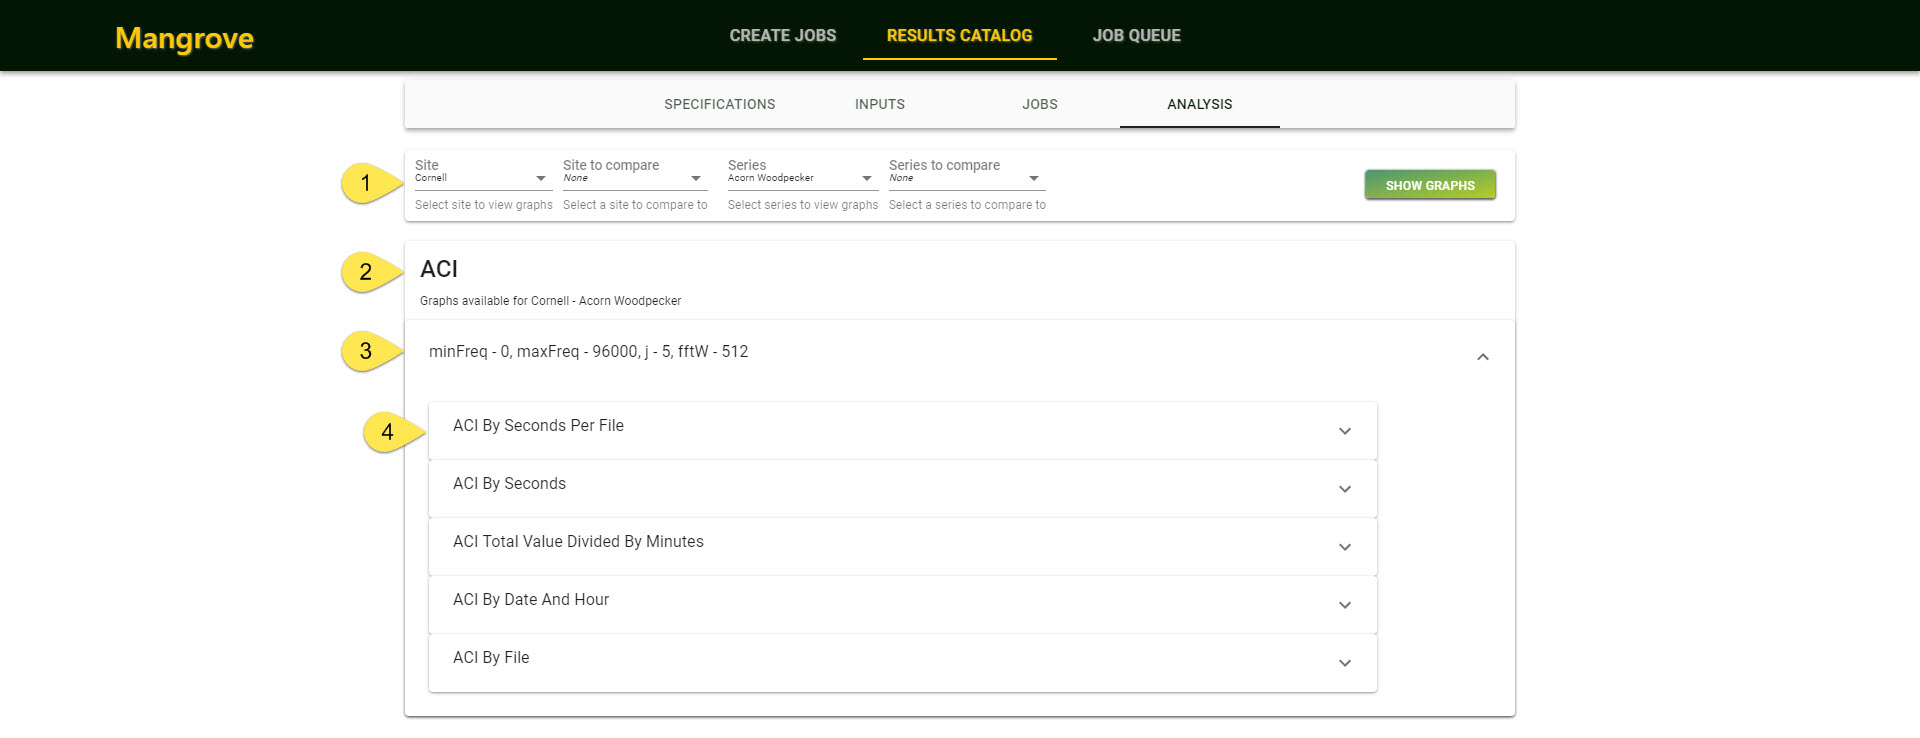
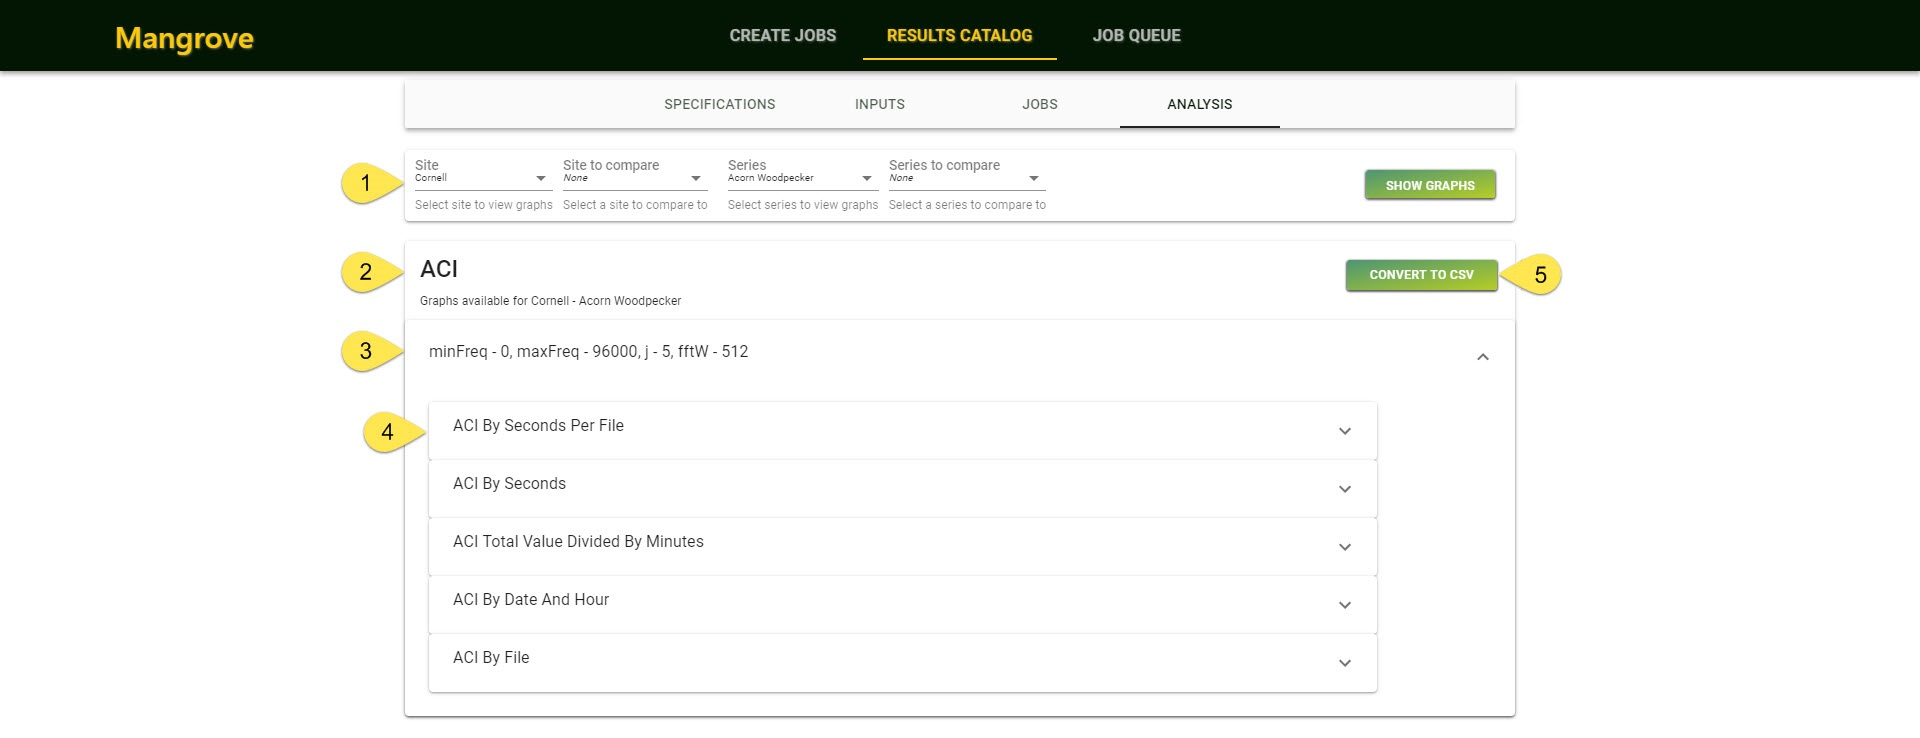
CSV export added to docs, table alignment

diff --git a/client/src/components/selectResults/specs/specsTable.js b/client/src/components/selectResults/specs/specsTable.js
@@ -83,7 +83,7 @@ class EnhancedTableHead extends React.Component {
             return (
               <TableCell
                 key={row.id}
-                align='center'
+                align='left'
                 padding={row.disablePadding ? 'none' : 'default'}
                 sortDirection={orderBy === row.id ? order : false}
               >

diff --git a/docs/design document/tech/userInterface/catalogPage.tex b/docs/design document/tech/userInterface/catalogPage.tex
@@ -12,7 +12,7 @@ The Results Catalog will be depicted in four separate parts, the first three of 
     \item \textbf{Filter By Metadata}\\ The user can filter the input files by its user defined metadata. When creating jobs, the user creates a Site and Series name for all inputs to be a part of. Here, they can type in a Site or Series to filter by. Additionally, they can filter by specific longitude and latitude markers.
     \item \textbf{Select Filtered Inputs}\\ After filtering, the user will select their inputs using the checkboxes. Again, these can be sorted by Site name, Series name, and also the date of the recording. An example of searching by Site, such as \textquotesingle UCF Arboretum\textquotesingle , would show all files captured at that location. An additional feature to this table is that you can delete inputs. Deleting inputs also removes any associated jobs with the input.
     \item \textbf{Select Jobs}\\ The final step before viewing graphs in the Analysis View is to choose jobs based off of the selected specs and inputs. As explained previously in this paper, every job consists of a spec and an input file. Thus, only jobs containing both selected specs and inputs will appear here.
-    \item \textbf{Filter By Author}\\ The user can filter jobs by Author here. When on a shared server instance, other user's jobs may be available to be viewed as long as the proper permissions are given.
+    \item \textbf{Filter By Author}\\ The user can filter jobs by Author here. When on a shared server instance, other user\textquotesingle s jobs may be available to be viewed as long as the proper permissions are given.
     \item \textbf{Select Filtered Jobs}\\ Finally, the user can once again select jobs using the checkboxes provided. The user can also sort these jobs by author and also by the time in which the job was created.
 \end{enumerate}
 The second part of the Results Catalog is referred to as the Analysis View. The Analysis View focuses on having a clear way for users to view meaningful visualizations of their sound files and results. The features of the Analysis View are outlined below.\\
@@ -21,5 +21,13 @@ The second part of the Results Catalog is referred to as the Analysis View. The 
   \item \textbf{Analysis View}\\ Before any graphs are shown in the Analysis View, the user must select which Site and Series they wish to view graphs for. If they wish, they can choose a Site and Series to compare to as well. When they have selected these, clicking the Show Graphs button will make the graphs appear.
   \item \textbf{Graphs Sorted By Index}\\ In the example shown, only the ACI index is available. However if the user selected another index, like NDSI, another panel like the ACI one will appear below the ACI one. This panel contains all the specs selected in the previous steps, along with the graphs for those specs. All of which are contained in drop down containers.
   \item \textbf{Graphs Sorted By Spec}\\ For each selected spec from the earlier steps, a drop down container will appear with the title description of the spec\textquotesingle s parameters.
-  \item \textbf{Graphs}\\ Finally, these drop down containers contain the graphs themselves. Every index has different graphs available meant to best represent the index and its respective outputs. These graphs are detailed more in the Creating Flexible Data Visualizations section of this paper.
+  \item \textbf{Graphs}\\ These drop down containers contain the graphs themselves. Every index has different graphs available meant to best represent the index and its respective outputs. These graphs are detailed more in the Creating Flexible Data Visualizations section of this paper.
+  \item \textbf{Export To CSV}\\ Along with viewing graphs, an option to export the results of jobs to a CSV file is available. The main purpose of this feature is to confirm the credibility of the visualizations, which is especially important in research publications.
+\end{enumerate}
+Clicking this button will open the modal shown below, where the user can specify certain preferences on how the data will be exported.\\
+\includegraphics[width=\textwidth]{CSVExport}
+\begin{enumerate}
+  \item \textbf{Specify CSV Fields}\\ The user is shown check boxes of all parameters used to create this set of jobs as well as the name of each result value produced. If certain parameters or results are not relevant to the user\textquotesingle s current research, they can be omitted so that the important data is easier to read.
+  \item \textbf{Export as Separate CSVs}\\ The default option is to produce a CSV file of the entire job set selected in the catalog. Some indices however, like ACI have very large array results, which take up multiple rows in the file. The option to convert each job as a separate file is given to make the results clearer to read.
+  \item \textbf{Download}\\ When all fields and CSV type preferences have been specified, the user can download the job set CSV file or each individual file. When downloaded, job set files will be named according to the site, series and index used, while individual job files will be named with the site, series and filename.
 \end{enumerate}
